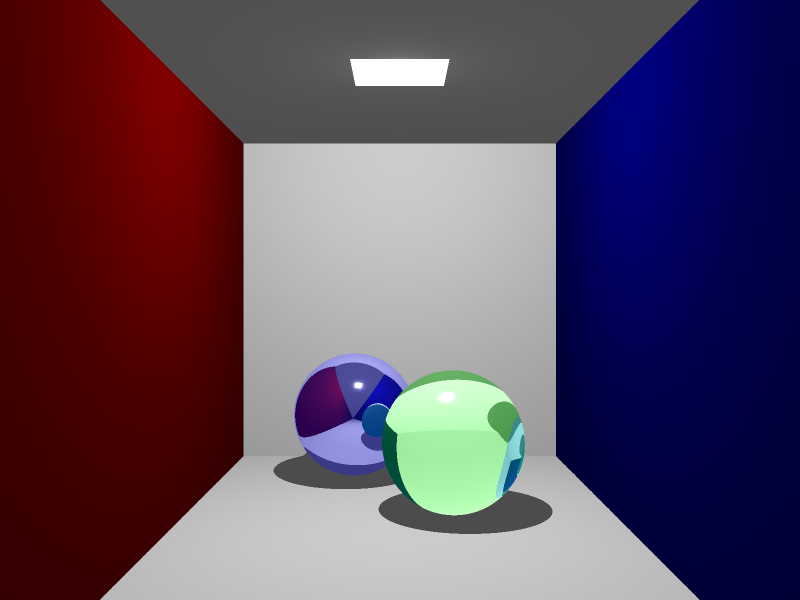
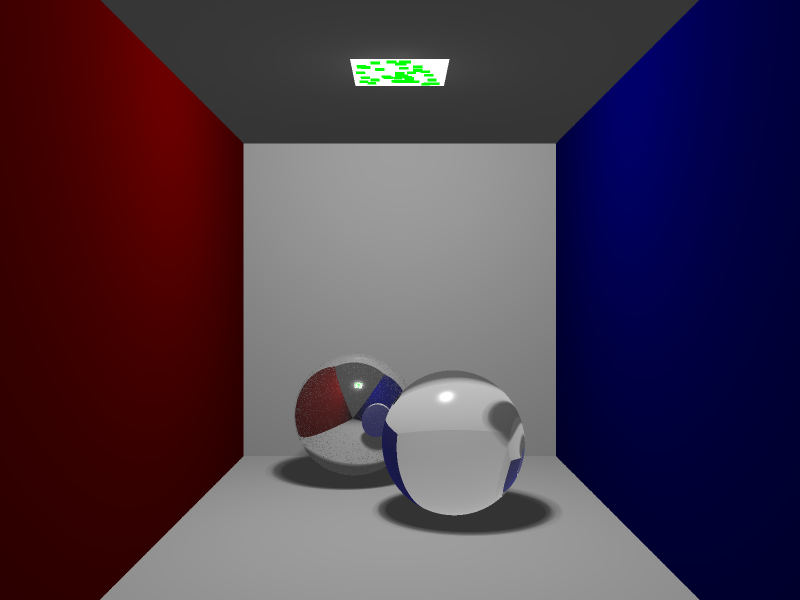
Fix area light (samples were not within the given square but only in line)

diff --git a/VCG_Raytracer/src/Main.java b/VCG_Raytracer/src/Main.java
@@ -24,6 +24,8 @@
 ~~~~~~~~~~~~~~~~~~~~~~~~~~~~~~~~~~~~~~~~~~~~~~~~~~~~~~~~~~~~~*/
 
 import raytracer.Raytracer;
+import scene.SceneObject;
+import scene.lights.AreaLight;
 import scene.materials.AmbientMaterial;
 import scene.materials.LambertMaterial;
 import scene.materials.Material;
@@ -38,7 +40,6 @@ import utils.algebra.Vec3;
 /*
     ISSUES:
 
-    * Fix squareness of area light
     * Fix correct exit ray from refraction
     * Fix light normalisation
     * Fix Phong
@@ -55,10 +56,26 @@ import utils.algebra.Vec3;
 // Main application class. This is the routine called by the JVM to run the program.
 public class Main {
 
-    static RgbColor AMBIENT_LIGHT = new RgbColor(0.2f, 0.2f, 0.2f);
+    /** BOX_DIMENSION **/
 
     static int IMAGE_WIDTH = 800;
     static int IMAGE_HEIGHT = 600;
+
+    static float BOX_DIMENSION = 3f;
+
+    /** LIGHT **/
+
+    static RgbColor AMBIENT_LIGHT = new RgbColor(0.2f, 0.2f, 0.2f);
+
+    static short LIGHT_DENSITY = 40;
+    static short LIGHT_SAMPLES = 40;
+
+    static RgbColor BACKGROUND_COLOR = RgbColor.BLACK;
+
+    static Vec3 LIGHT_POSITION = new Vec3( 0f, BOX_DIMENSION - 0.1f, BOX_DIMENSION + 2 );
+    static short AREA_LIGHT_SIZE = 1;
+
+    /** KAMERA **/
 
     static Vec3 CAM_POS = new Vec3(0, 0, 15);
     static Vec3 LOOK_AT = new Vec3(0, 0, 0);
@@ -67,18 +84,17 @@ public class Main {
     static float VIEW_ANGLE = 75;
     static float FOCAL_LENGTH = 1;
 
-    static float DIMENSION = 3f;
+    /** RAYTRACER **/
 
     static int RECURSIONS = 5;
+    static int ANTI_ALIASING = Raytracer.ANTI_ALIASING_LOW; //Raytracer.ANTI_ALIASING_MEDIUM;
+    static boolean USE_SOFT_SHADOWS = true;
 
-    static short LIGHT_DENSITY =  40;
-    static short LIGHT_SAMPLES = 30;
+    /** DEBUG **/
 
-    static int ANTI_ALIASING = Raytracer.ANTI_ALIASING_LOW;//Raytracer.ANTI_ALIASING_MEDIUM;
-
-    static RgbColor BACKGROUND_COLOR = RgbColor.BLACK;
-
-    static Vec3 LIGHT_POSITION = new Vec3( 0f, DIMENSION - 0.1f, DIMENSION + 2 );
+    static boolean SHOW_AREA_LIGHT_SAMPLES = true;
+    static boolean SHOW_PRIMARY_RAYS = false;
+    static boolean SHOW_SECONDARY_RAYS = false;
 
     // Initial method. This is where the show begins.
     public static void main(String[] args){
@@ -118,13 +134,25 @@ public class Main {
 
     private static void setupLights(Scene renderScene) {
         // Note: Never put the light source inside a plane
-
         Vec3 light_pos = new Vec3(LIGHT_POSITION.x, LIGHT_POSITION.y - 0.001f, LIGHT_POSITION.z);
-        /* Point Light */
-        renderScene.createPointLight(light_pos, RgbColor.GRAY);
 
+        if(!USE_SOFT_SHADOWS) {
+        /* Point Light */
+            renderScene.createPointLight(light_pos, RgbColor.GRAY);
+        }
+        else {
         /* Area Light */
-        //renderScene.createAreaLight(light_pos, 2, LIGHT_DENSITY, LIGHT_SAMPLES, RgbColor.LIGHT_GRAY);
+            renderScene.createAreaLight(light_pos, AREA_LIGHT_SIZE, LIGHT_DENSITY, LIGHT_SAMPLES, RgbColor.LIGHT_GRAY);
+
+            if(SHOW_AREA_LIGHT_SAMPLES) {
+                AreaLight light1 = (AreaLight) renderScene.getLightList().get(0);
+
+                for (SceneObject light : light1.getPositionList()) {
+                    Material planeMaterial = new AmbientMaterial(RgbColor.GREEN);
+                    renderScene.createSquare(light.getPosition(), planeMaterial, 0.06f, Plane.FACING_DOWN, false);
+                }
+            }
+        }
     }
 
     private static void setupCameras(Scene renderScene) {
@@ -141,20 +169,20 @@ public class Main {
         float smallSphereRadius = 0.3f;
 
         // Materials: AmbientMaterial Color, Diffuse Coeeff, Specular Coeff, Shininess, Material
-        Material sphereMaterial1 = new PhongMaterial(RgbColor.BLUE, RgbColor.DARK_GRAY, RgbColor.WHITE, PhongMaterial.VERY_SHINY, Material.MOST_REFLECTION, Material.NO_TRANSMISSION, 1);
-        Material sphereMaterial2 = new PhongMaterial(RgbColor.GREEN, RgbColor.DARK_GRAY, RgbColor.WHITE, PhongMaterial.VERY_SHINY, Material.NO_REFLECTION, Material.DIAMOND, 1);
+        Material sphereMaterial1 = new PhongMaterial(RgbColor.GRAY, RgbColor.DARK_GRAY, RgbColor.WHITE, PhongMaterial.VERY_SHINY, Material.MOST_REFLECTION, Material.NO_TRANSMISSION, 1);
+        Material sphereMaterial2 = new PhongMaterial(RgbColor.GRAY, RgbColor.DARK_GRAY, RgbColor.WHITE, PhongMaterial.VERY_SHINY, Material.NO_REFLECTION, Material.DIAMOND, 1);
 
         Material sphereMaterial3 = new PhongMaterial(RgbColor.DARK_GREEN, RgbColor.GREEN, RgbColor.WHITE, PhongMaterial.SHINY, Material.NO_REFLECTION, Material.NO_TRANSMISSION, 1);
 
-        renderScene.createSphere(new Vec3(-DIMENSION/4f, -DIMENSION + 1.1f, -DIMENSION/3f+3), sphereMaterial1, sphereRadius);
-        renderScene.createSphere(new Vec3(DIMENSION/4f, -DIMENSION + sphereRadius, DIMENSION/3f+3), sphereMaterial2, sphereRadius);
+        renderScene.createSphere(new Vec3(-BOX_DIMENSION /4f, -BOX_DIMENSION + 1.1f, -BOX_DIMENSION /3f+3), sphereMaterial1, sphereRadius);
+        renderScene.createSphere(new Vec3(BOX_DIMENSION/4f, -BOX_DIMENSION + sphereRadius, BOX_DIMENSION /3f+3), sphereMaterial2, sphereRadius);
 
-        //renderScene.createSphere(new Vec3(DIMENSION/4f, -DIMENSION + smallSphereRadius, DIMENSION), sphereMaterial3, smallSphereRadius);
+        renderScene.createSphere(new Vec3(BOX_DIMENSION/2f, -BOX_DIMENSION + smallSphereRadius, BOX_DIMENSION), sphereMaterial3, smallSphereRadius);
     }
 
     private static void setupLightShapes(Scene renderScene) {
         Material planeMaterial = new AmbientMaterial(RgbColor.WHITE);
-        renderScene.createSquare(LIGHT_POSITION, planeMaterial, 0.6f, Plane.FACING_DOWN);
+        renderScene.createSquare(LIGHT_POSITION, planeMaterial, 0.6f, Plane.FACING_DOWN, false);
     }
 
     private static void setupCornellBox(Scene renderScene) {
@@ -166,16 +194,16 @@ public class Main {
         //Material sphereMaterial2 = new PhongMaterial(RgbColor.DARK_GRAY, RgbColor.WHITE, RgbColor.WHITE, PhongMaterial.VERY_SHINY, Material.TOTAL_REFLECTION, Material.NO_TRANSMISSION, 1);
 
         // Plane 0
-        renderScene.createPlane(new Vec3( DIMENSION, 0f, 0 ), planeMaterialLeft, Plane.FACING_LEFT);
+        renderScene.createPlane(new Vec3(BOX_DIMENSION, 0f, 0 ), planeMaterialLeft, Plane.FACING_LEFT);
         // Plane 1
-        renderScene.createPlane(new Vec3( -DIMENSION, 0f, 0 ), planeMaterialRight, Plane.FACING_RIGHT);
-        //renderScene.createPlane(new Vec3( 0f, 0f, 2 * DIMENSION ), planeMaterial, Plane.FACING_FRONT);
+        renderScene.createPlane(new Vec3( -BOX_DIMENSION, 0f, 0 ), planeMaterialRight, Plane.FACING_RIGHT);
+        //renderScene.createPlane(new Vec3( 0f, 0f, 2 * BOX_DIMENSION ), planeMaterial, Plane.FACING_FRONT);
         // Plane 2
         renderScene.createPlane(new Vec3( 0f, 0f, 0f ), planeMaterial, Plane.FACING_BACK);
         // Plane 3
-        renderScene.createPlane(new Vec3( 0f, -DIMENSION, 0 ), planeMaterial, Plane.FACING_UP);
+        renderScene.createPlane(new Vec3( 0f, -BOX_DIMENSION, 0 ), planeMaterial, Plane.FACING_UP);
         // Plane 4
-        renderScene.createPlane(new Vec3( 0f, DIMENSION, 0 ), planeMaterial, Plane.FACING_DOWN);
+        renderScene.createPlane(new Vec3( 0f, BOX_DIMENSION, 0 ), planeMaterial, Plane.FACING_DOWN);
     }
 
     private static void raytraceScene(Window renderWindow, Scene renderScene){

diff --git a/VCG_Raytracer/src/raytracer/Ray.java b/VCG_Raytracer/src/raytracer/Ray.java
@@ -8,12 +8,14 @@ public class Ray {
     private Vec3 mEndPoint;
     private Vec3 mDirection;
     private float mDistance;
+    private boolean mIsEntering;
+
+    public Ray(Vec3 startPoint, Vec3 direction, float param, boolean enteringMode){
+        init(startPoint, direction, param, enteringMode);
+    }
 
     public Ray(Vec3 startPoint, Vec3 direction, float param){
-        mStartPoint = startPoint;
-        mDirection = direction.normalize();
-        mDistance = param;
-        mEndPoint = mDirection.multScalar(param).add(mStartPoint);
+        init(startPoint, direction, param, true);
     }
 
     public Ray(Vec3 startPoint, Vec3 endPoint){
@@ -22,6 +24,15 @@ public class Ray {
         mDirection = endPoint.sub(startPoint);
         mDistance = mDirection.length();
         mDirection = mDirection.normalize();
+        mIsEntering = false;
+    }
+
+    private void init(Vec3 startPoint, Vec3 direction, float param, boolean enteringMode){
+        mStartPoint = startPoint;
+        mDirection = direction.normalize();
+        mDistance = param;
+        mEndPoint = mDirection.multScalar(param).add(mStartPoint);
+        mIsEntering = enteringMode;
     }
 
     public Vec3 getStartPoint() {
@@ -38,6 +49,12 @@ public class Ray {
 
     public float getDistance() {
         return mDistance;
+    }
+
+    public boolean isEntering() { return mIsEntering; }
+
+    public void setEnteringMode(boolean isEntering) {
+        mIsEntering = isEntering;
     }
 
     @Override

diff --git a/VCG_Raytracer/src/scene/shapes/Shape.java b/VCG_Raytracer/src/scene/shapes/Shape.java
@@ -18,19 +18,25 @@ public abstract class Shape extends SceneObject {
     protected Matrix4x4 invTransformation;
     protected Matrix4x4 trpTransformation;
 
+    protected boolean raytraced;
+
     public Shape(Vec3 pos, Material mat, Matrix4x4 transf, String type) {
         super(pos);
         this.material = mat;
         this.type = type;
+        this.raytraced = true;
         this.orgTransformation = transf;
         this.invTransformation = transf.invert();
         this.trpTransformation = transf.transpose();
         Log.print(this, "Init " + this.orgTransformation);
     }
 
-    public abstract Intersection intersect(Ray ray);
+    public Shape(Vec3 pos, Material mat, Matrix4x4 transf, String type, boolean raytraced) {
+        this(pos, mat, transf, type);
+        this.raytraced = raytraced;
+    }
 
-    //public abstract boolean equals(Shape shape);
+    public abstract Intersection intersect(Ray ray);
 
     public String isType() {
         return this.type;
@@ -59,12 +65,20 @@ public abstract class Shape extends SceneObject {
         return this.material.isType("LAMBERT");
     }
 
+    public boolean isRaytraced() {
+        return raytraced;
+    }
+
     public boolean isReflective(){
         return this.material.isReflective();
     }
 
     public boolean isTransparent(){
         return this.material.isTransparent();
+    }
+
+    public void setRaytraced(boolean raytraced) {
+        this.raytraced = raytraced;
     }
 
     @Override

diff --git a/VCG_Raytracer/src/raytracer/Intersection.java b/VCG_Raytracer/src/raytracer/Intersection.java
@@ -40,12 +40,23 @@ public class Intersection {
         Vec3 inRay = mInRay.getDirection().negate().normalize();
         mNormal = mNormal.normalize();
 
-        float normDotIn = mNormal.scalar(inRay);
-        float n = mShape.getMaterial().getFractionCoeff();
+        boolean rayIsEnteringMedium = mInRay.isEntering();
 
-        if (normDotIn < 0.0f) {
-            //Log.error(this, "coeff switch");
+        float normDotIn = mNormal.scalar(inRay);
+
+        if(normDotIn < 0.0f){
+            rayIsEnteringMedium = false;
+        }
+
+        float n;
+
+        if (rayIsEnteringMedium == false) {
+            Log.error(this, "coeff switch");
             n = mShape.getSwitchedMaterialCoeff();
+            rayIsEnteringMedium = true;
+        } else {
+            n = mShape.getMaterial().getFractionCoeff();
+            rayIsEnteringMedium = false;
         }
 
         float sinBeta2 = n * n;
@@ -59,7 +70,7 @@ public class Intersection {
             float b = (float) Math.sqrt(1 - sinSqrBeta);
 
             Vec3 out = inRay.negate().multScalar(n).add(mNormal.multScalar(a - b));
-            return new Ray(mIntersectionPoint, out, Float.MAX_VALUE);
+            return new Ray(mIntersectionPoint, out, Float.MAX_VALUE, rayIsEnteringMedium);
         }
         // Total internal reflection
         else{

diff --git a/VCG_Raytracer/src/scene/lights/AreaLight.java b/VCG_Raytracer/src/scene/lights/AreaLight.java
@@ -20,9 +20,12 @@ public class AreaLight  extends Light {
 	private PointLight mCenterLight;
 
 	private ArrayList<PointLight> mTempPositionList;
+	private ArrayList<PointLight> mPositionList;
 
 	public AreaLight(Vec3 pos, float dimension, short resolution, short samples, RgbColor color) {
 		super(pos, color, "AreaLight");
+
+		mPositionList = new ArrayList<>();
 
 		mPlane = new Plane(pos, null, Plane.FACING_DOWN);
 		mColor = color;
@@ -42,7 +45,14 @@ public class AreaLight  extends Light {
 	}
 
 	public ArrayList<PointLight> getPositionList() {
+		if (mPositionList.size() == 0){
+			mPositionList = calculatePositionList();
+		}
 
+		return mPositionList;
+	}
+
+	private ArrayList<PointLight> calculatePositionList() {
 		ArrayList<PointLight> positionList = new ArrayList<>();
 		positionList.add( mCenterLight );
 
@@ -77,8 +87,10 @@ public class AreaLight  extends Light {
 
 		ArrayList<Integer> sampleNumberList = new ArrayList<>();
 
+		int dimension = mRes * mRes;
+
 		for(int i = 0; i < mSamples; i++){
-			sampleNumberList.add( rand.nextInt( mRes ) + 1 );
+			sampleNumberList.add( rand.nextInt( dimension ) + 1 );
 			// same multiple values possible!!
 		}
 		return sampleNumberList;

diff --git a/VCG_Raytracer/src/raytracer/Raytracer.java b/VCG_Raytracer/src/raytracer/Raytracer.java
@@ -221,9 +221,9 @@ public class Raytracer {
 
         // 2: Intersection test with all shapes
         for( Shape shape : mShapeList ){
-            // Important: Avoid intersection with itself
+            // Important: Avoid intersection with itself as long as it is not transparent
             if(prevIntersec != null) {
-                if (prevIntersec.getShape().equals(shape)) {
+                if (prevIntersec.getShape().equals(shape) && prevIntersec.getShape().isTransparent()) {
                     skip = true;
                 }
             }
@@ -249,7 +249,7 @@ public class Raytracer {
         // 2: Intersection test with all shapes
         for( Shape shape : mShapeList ){
             // Important: Avoid intersection with itself
-            if( !prevIntersec.getShape().equals( shape ) ) {
+            if( !prevIntersec.getShape().equals( shape ) && ( shape.isRaytraced() == true ) ) {
 
                 // Find intersection between shape and the light source
                 Intersection intersection = shape.intersect( inRay );

diff --git a/VCG_Raytracer/src/scene/Scene.java b/VCG_Raytracer/src/scene/Scene.java
@@ -49,6 +49,10 @@ public class Scene {
         mShapeList.add(new Square(pos, mat, dim, facingDirection));
     }
 
+    public void createSquare(Vec3 pos, Material mat, float dim, int facingDirection, boolean raytraced){
+        mShapeList.add(new Square(pos, mat, dim, facingDirection, raytraced));
+    }
+
     public void createPointLight(Vec3 pos, RgbColor color){
         mLightList.add(new PointLight(pos, color));
     }

diff --git a/VCG_Raytracer/src/scene/shapes/Square.java b/VCG_Raytracer/src/scene/shapes/Square.java
@@ -18,6 +18,12 @@ public class Square extends Shape {
 		mDim = dimension;
 	}
 
+	public Square(Vec3 pos, Material mat, float dimension, int facingDirection, boolean raytraced) {
+		this(pos, mat, dimension, facingDirection);
+
+		this.raytraced = raytraced;
+	}
+
 	@Override
 	public Intersection intersect(Ray ray) {
 		Intersection intersection = mPlane.intersect(ray);

diff --git a/VCG_Raytracer/src/scene/shapes/Sphere.java b/VCG_Raytracer/src/scene/shapes/Sphere.java
@@ -58,7 +58,7 @@ public class Sphere extends Shape {
 
         // Inside Sphere: take the hit in front of the ray
         else if( t2 > EPSILON && t1 < EPSILON ){
-            Log.warn(this, " should only happen on transparency...");
+            //Log.warn(this, " should only happen on transparency...");
             t = t2;
             mIsInside = true;
         }

diff --git a/VCG_Raytracer/src/scene/SceneObject.java b/VCG_Raytracer/src/scene/SceneObject.java
@@ -4,7 +4,8 @@ import utils.algebra.Vec3;
 
 public class SceneObject {
 
-    private Vec3 mPosition;
+    private Vec3 mPosition = new Vec3();
+
 
     public SceneObject(Vec3 pos){
         mPosition = pos;
